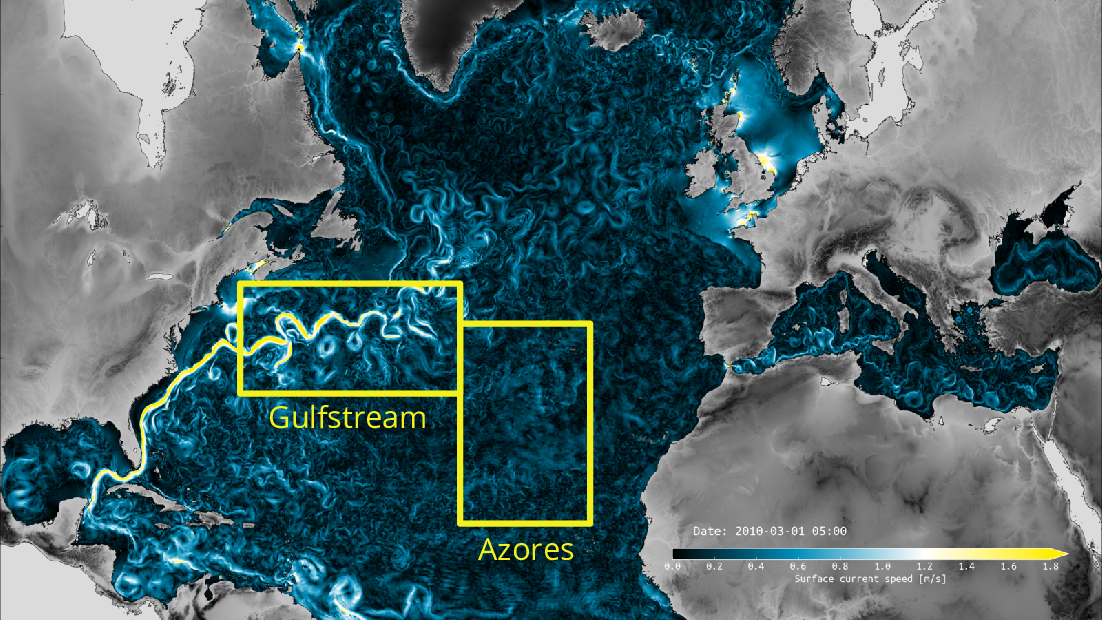
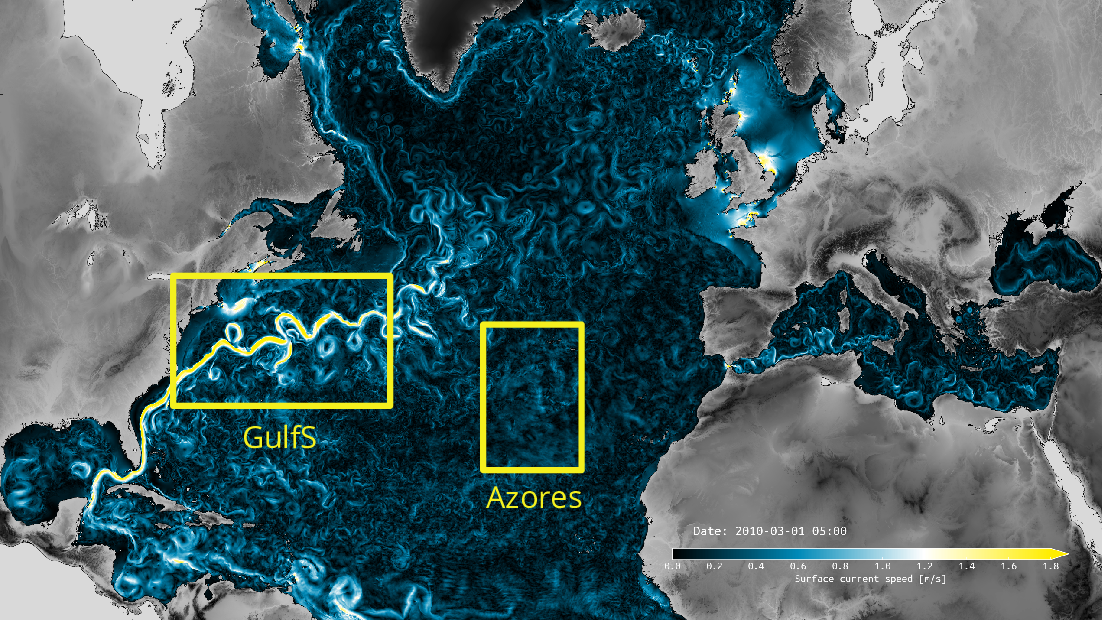
LB

diff --git a/04_assessment/along-track_spectra/README.md b/04_assessment/along-track_spectra/README.md
@@ -155,9 +155,8 @@ Note: script `spectra_SSH_sat_vs_mod.py` also *savez* the two spectra (`S(k)`) i
 
 ### Regions of interest
 
-![plot](https://github.com/ocean-next/eNATL60/blob/master/04_assessment/along-track_spectra/plots/boxes_spectra_eNATL60.png)
-
-*Figure 3: The two rectangular regions used for the along-track spectral analysis. `Azores Box` (23-40°N, 37-24°W), *
+![plot](https://github.com/ocean-next/eNATL60/blob/master/04_assessment/along-track_spectra/plots/boxes_spectra_eNATL60.png)<br>
+*Figure 3: The two rectangular regions used for the along-track spectral analysis. `Azores` box: 23-40°N, 37-24°W; `GulfS`: 32-44°N, 75-50°W.*
 
 
 ### Spectral comparison
